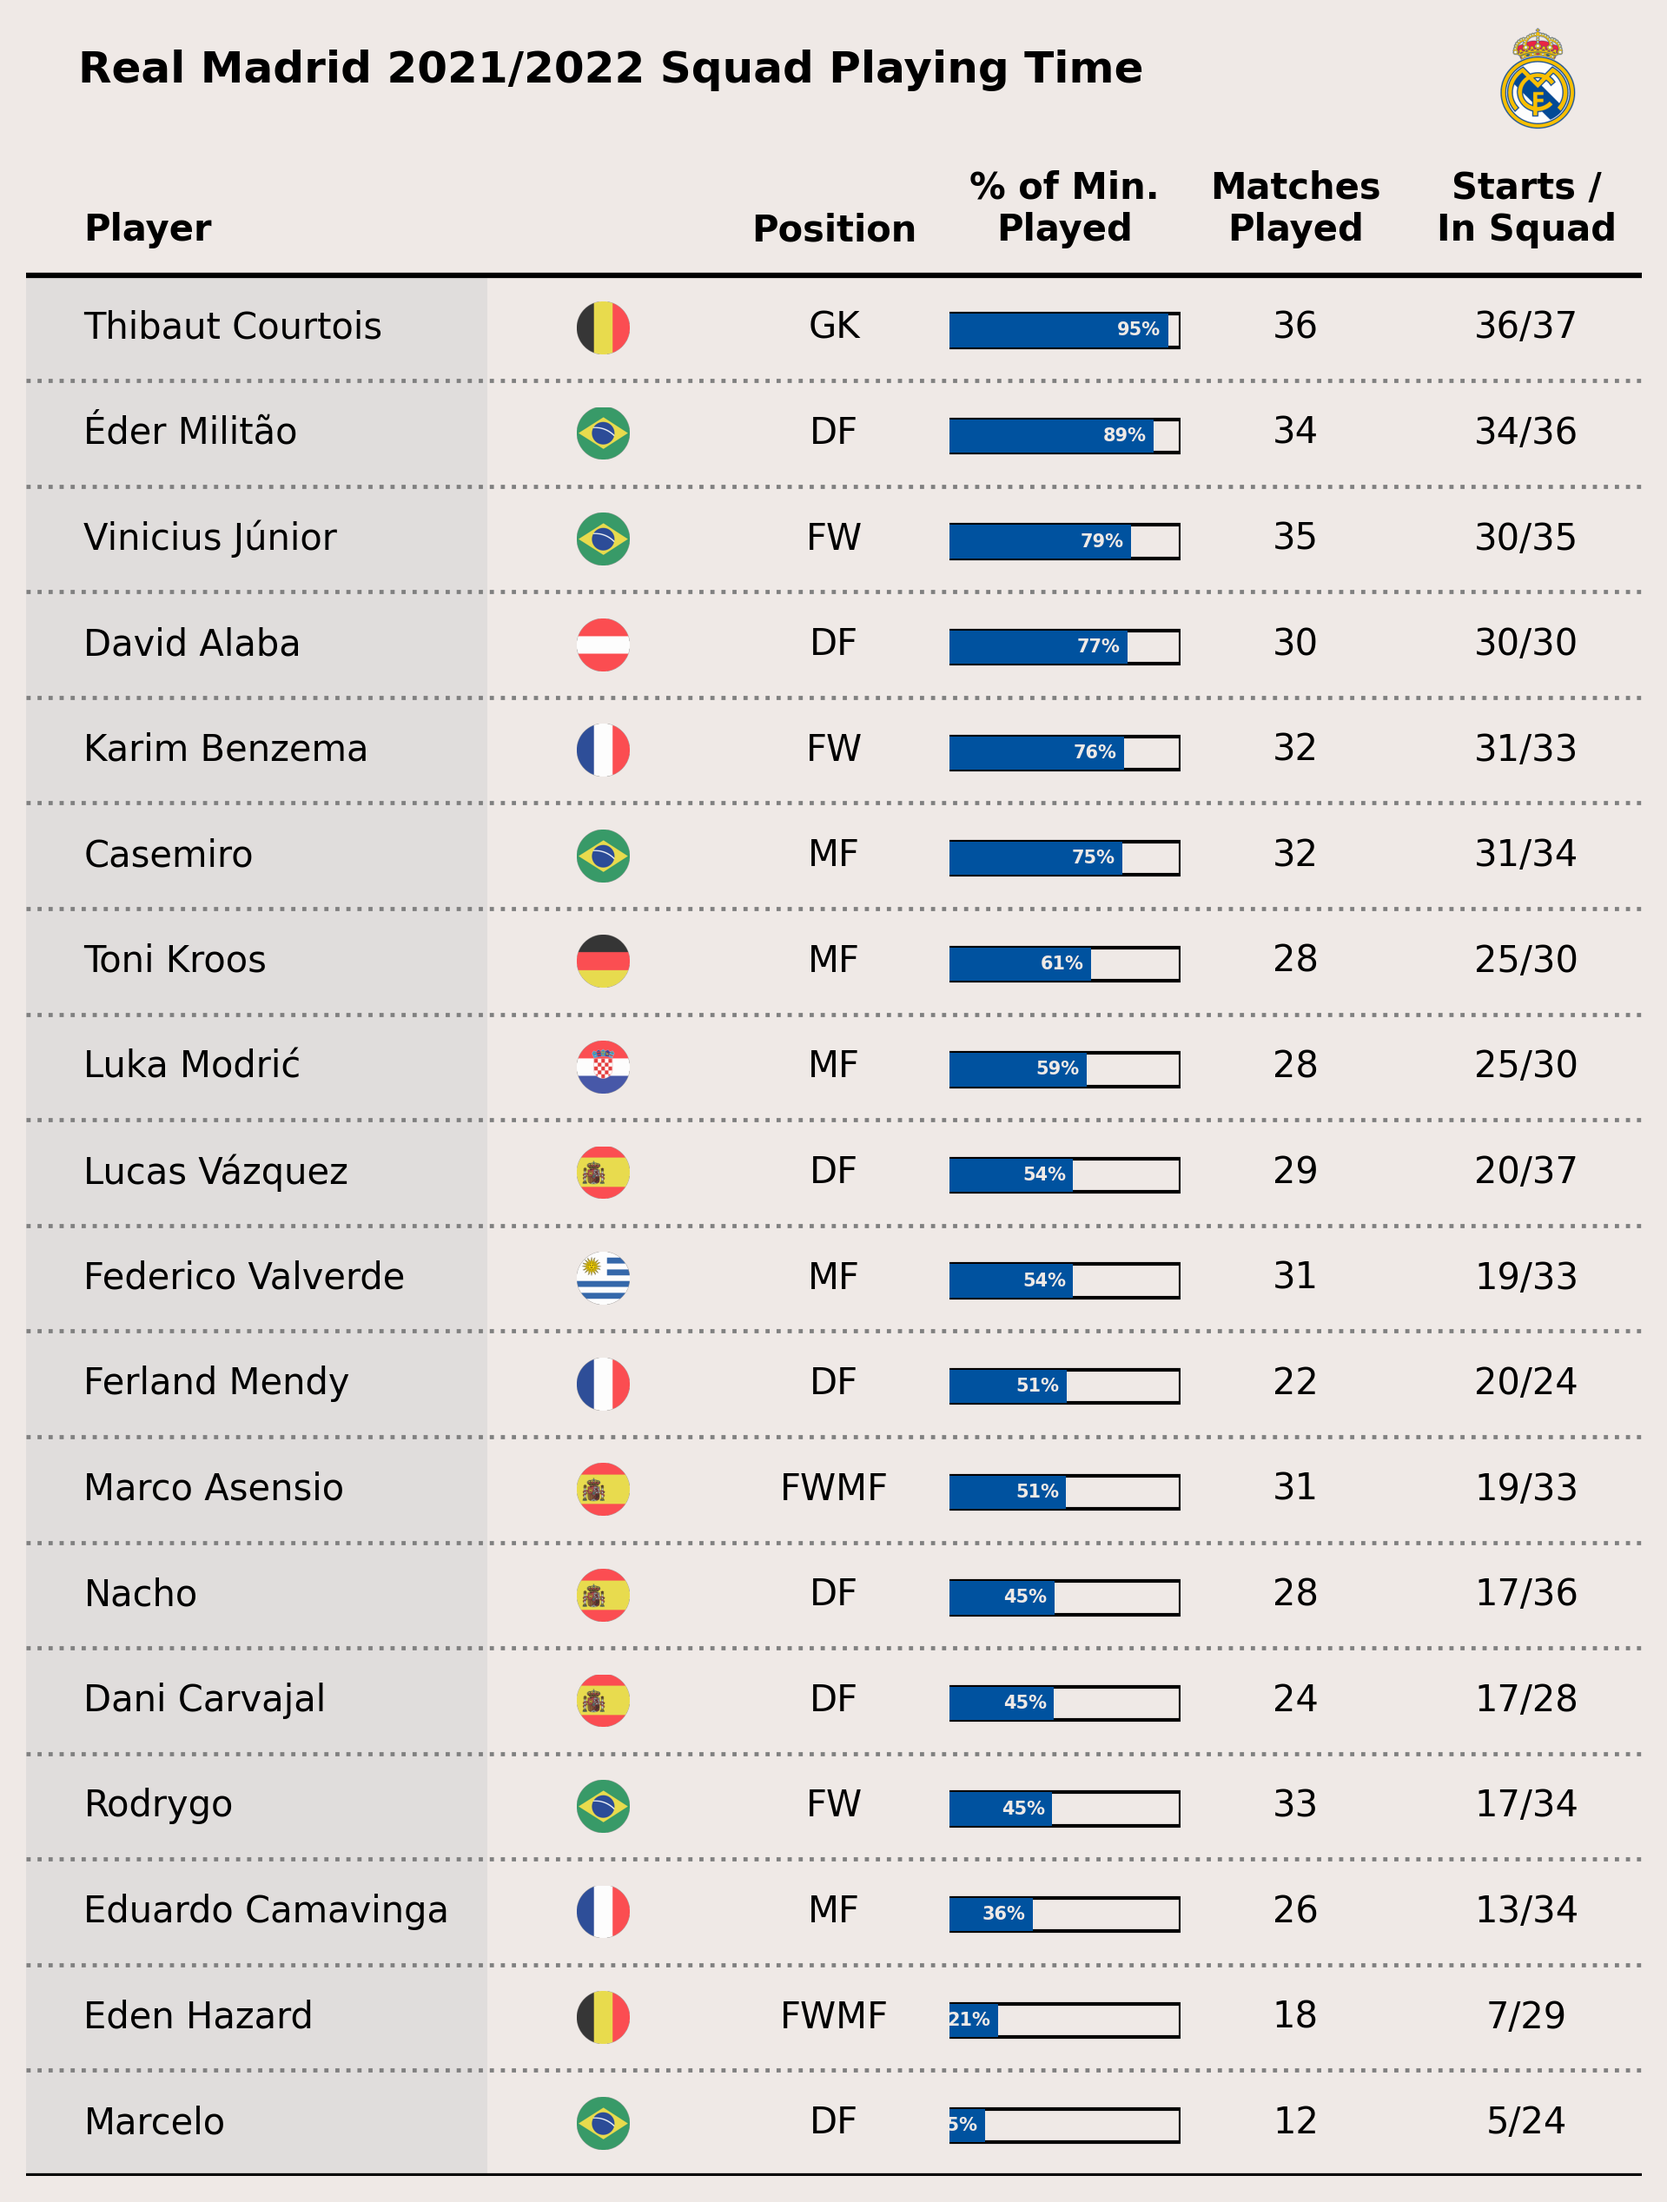
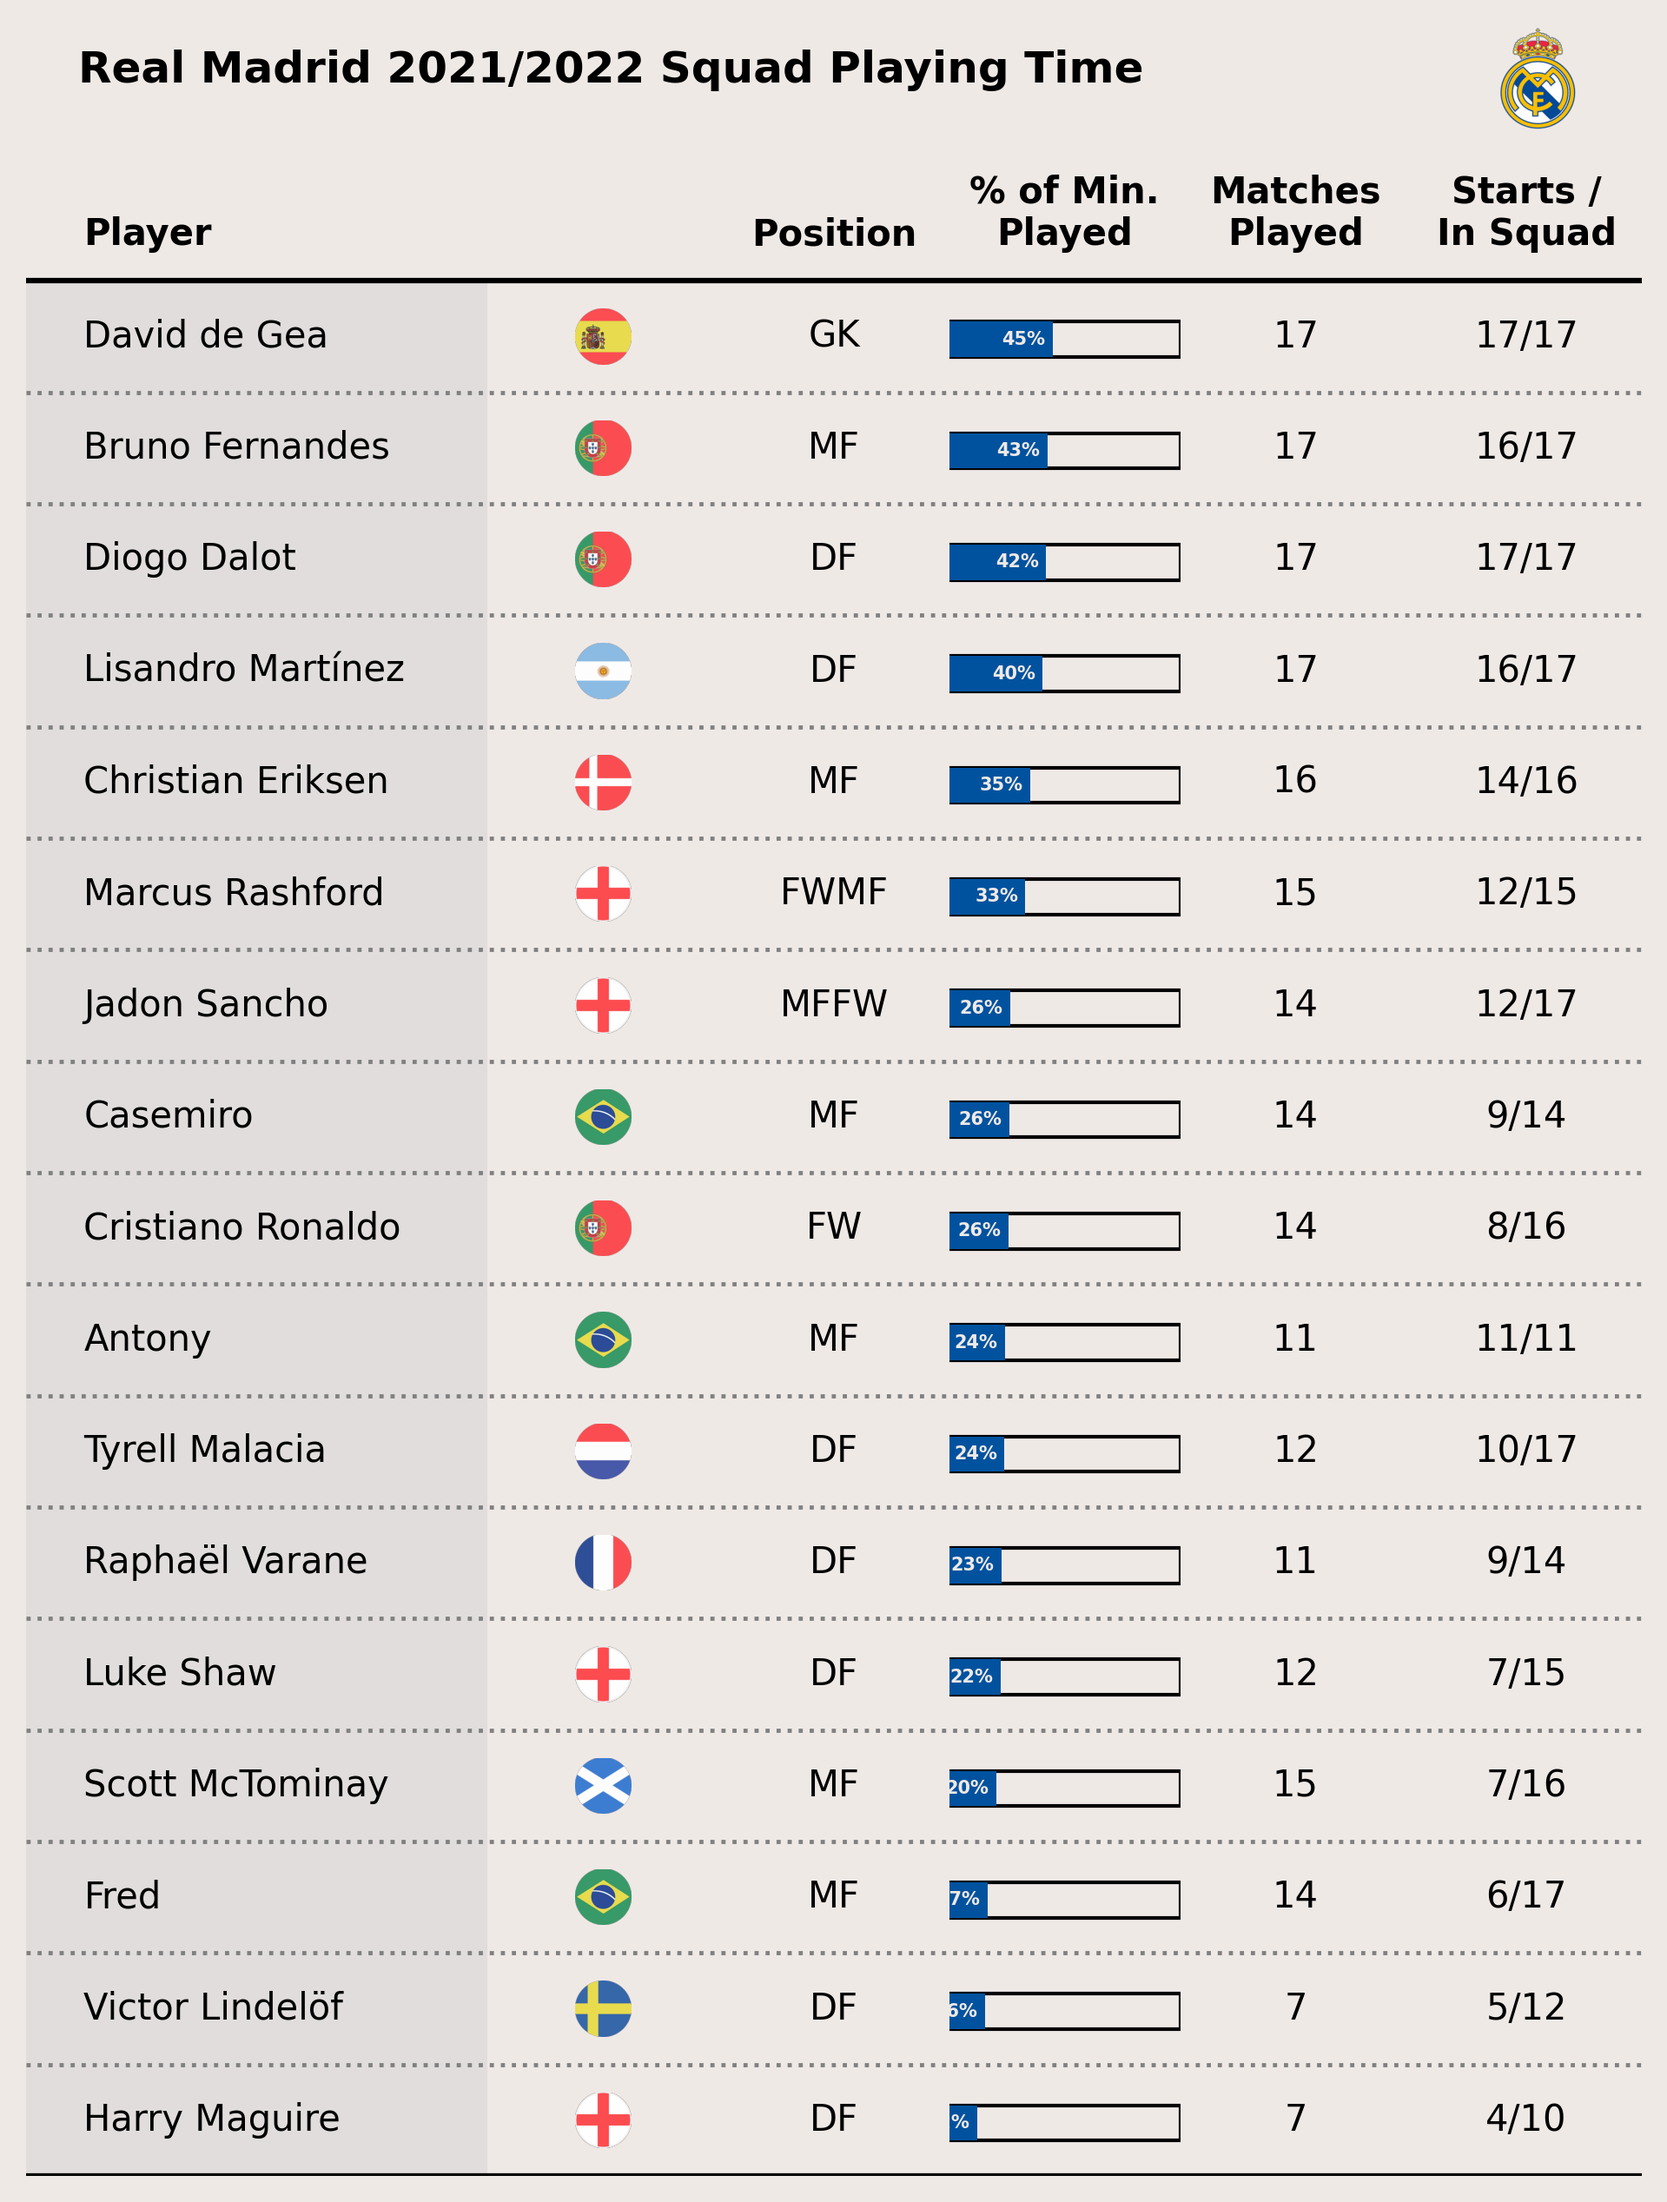
Added to todo and added urls + man utd csvs

diff --git a/main.py b/main.py
@@ -43,7 +43,20 @@ def minutes_battery(minutes, ax):
     ax.set_axis_off()
     return ax
 
-df = pd.read_csv('real_madrid_playing_time.csv', header=[1])
+url = 'https://fbref.com/en/squads/19538871/2022-2023/all_comps/Manchester-United-Stats-All-Competitions'
+html = pd.read_html(url, header=1)
+# print(html)
+df = html[0]
+# print(df)
+# print('------------------------------------------------------')
+# df = html[1]
+# print(df)
+# print('------------------------------------------------------')
+# df = html[2]
+# print(df)
+# print('------------------------------------------------------')
+df = html[28]
+df = pd.read_csv('man_utd_playing_times.csv', header=[0])
 
 df_final = df[df['Min'] >= 400].reset_index(drop=True)
 df_final = df_final[['Player', 'Nation', 'Pos', 'Min', 'MP', 'Starts', 'Subs', 'unSub']]
@@ -52,6 +65,7 @@ df_final = df_final.sort_values(by='Min').reset_index(drop=True)
 df_final = df_final[~df_final['Pos'].isna()]
 df_final['Nation'] = [x.split(' ')[1].lower() for x in df_final['Nation']]
 df_final['Starts_InSquad'] = [f'{x}/{y}' for x,y in zip(df_final['Starts'], df_final['InSquad'])]
+print(df)
 
 fig = plt.figure(figsize=(8,10), dpi=300, facecolor='#EFE9E6')
 ax = plt.subplot()
@@ -170,5 +184,7 @@ plt.savefig(
 )
 
 #TODO: Make code in functions
-#TODO: Get data from csv
+#TODO: Get data from url - not always table 25
 #TODO: Get team as input
+#TODO: Make for not a full season
+#TODO: Redo code
